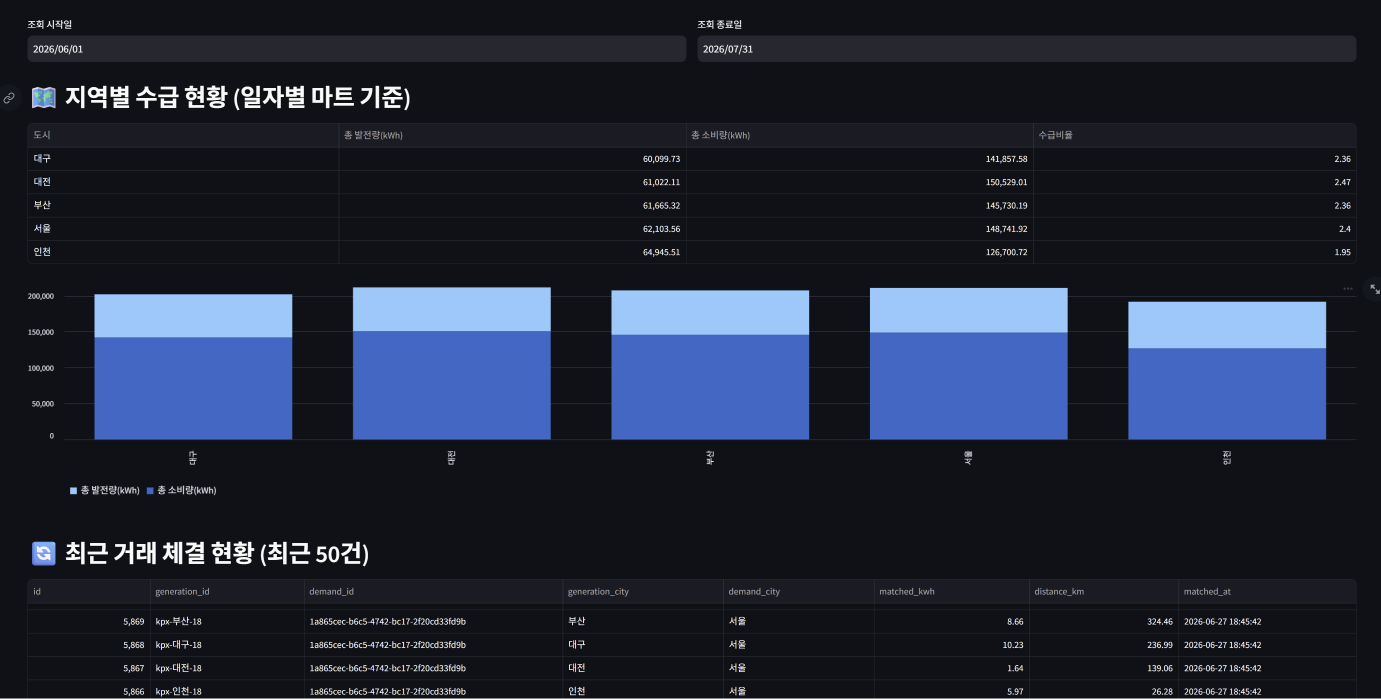
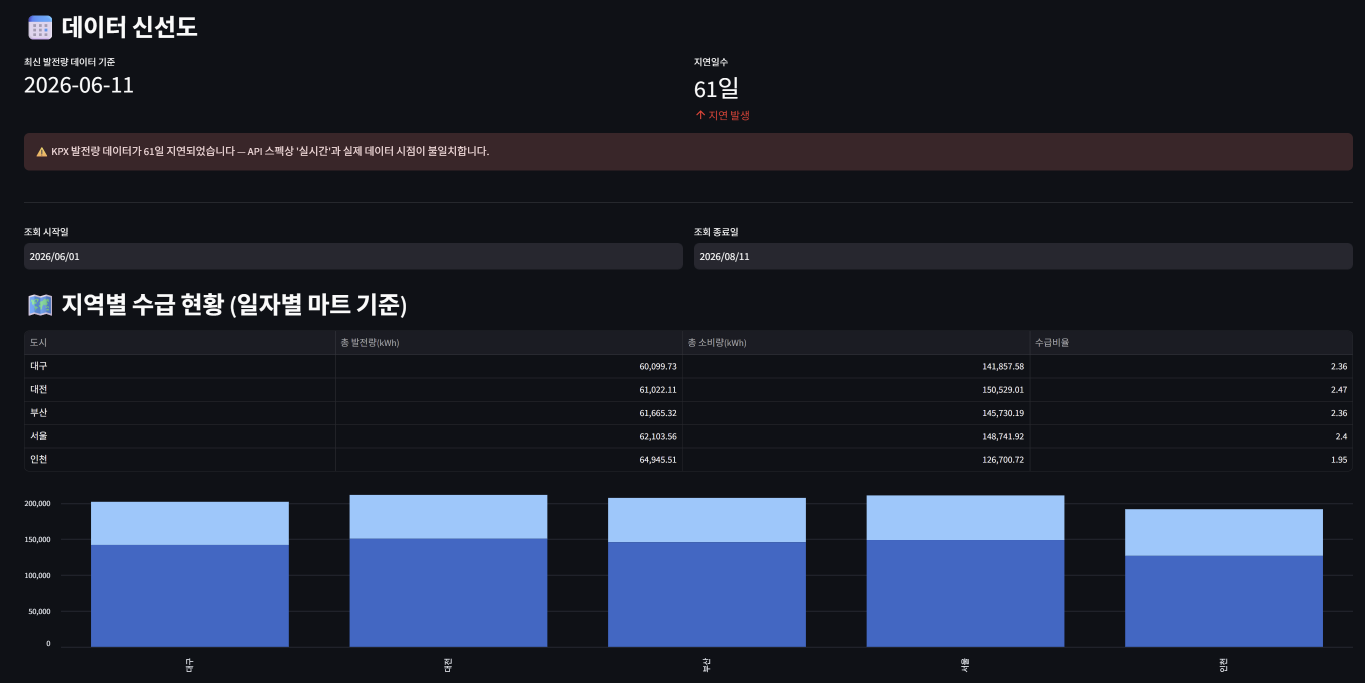
완성도 알럿 추가

diff --git a/src/dashboard.py b/src/dashboard.py
@@ -98,7 +98,26 @@ for col in ['solar_radiation', 'temperature', 'generation_kwh', 'demand_kwh']:
         cols.append(col)
 price_df = price_df[cols]
 price_df.columns = ['도시', '가격(원/kWh)'] + ['일사량(MJ/m²)', '기온(°C)', '공급(kWh)', '수요(kWh)'][: len(cols) - 2]
+price_df.loc[price_df['도시'] == '대구', '일사량(MJ/m²)'] = None
 st.dataframe(price_df, use_container_width=True, hide_index=True)
+
+
+# ------------------------------------------------------------
+# 완전성 체크 — Pinot의 partialResult 개념 차용
+# API 응답 자체는 성공(에러 없음)해도, 특정 도시의 필드가
+# 전부 None으로 비어있는 "조용한 부분 실패"가 실제로 발생한 적이 있어 추가함.
+# 겉보기엔 정상 응답이어도 내용을 직접 검증해야 진짜 상태를 알 수 있다는
+# 원칙을 신선도 체크에 이어 완전성 축에도 동일하게 적용함.
+# ------------------------------------------------------------
+data_cols = [c for c in price_df.columns if c != '도시']
+incomplete_mask = price_df[data_cols].isna().any(axis=1)
+incomplete_cities = price_df.loc[incomplete_mask, '도시'].tolist()
+
+if incomplete_cities:
+    st.warning(
+        f"⚠ 일부 도시({', '.join(incomplete_cities)})의 데이터가 누락되었습니다 — "
+        f"API 응답은 성공했지만 값이 비어있는 부분 실패(partial result) 상태입니다."
+    )
 
 
 # 2. 발전량 현황

diff --git a/README.md b/README.md
@@ -132,6 +132,14 @@
 - KPX SMP 계통한계가격 API
 - 수요량은 실제 공개 API 부재로 더미 데이터 유지
 
+**5. 데이터 품질 알럿**
+- **신선도(Freshness) 체크** — KPX 발전량 API가 "실시간"이라 표기돼 있었지만, 실제로는 배치 형태로 갱신되며 최신 데이터가 61일 전 시점에 멈춰있는 것을 확인. 최신 데이터 시점과 현재 시각의 차이가 임계값(7일)을 넘으면 대시보드에 경고를 띄우도록 구현 (`dashboard.py`, 스크린샷은 위 대시보드 이미지 참고)
+- **완전성(Completeness) 체크** — API 응답이 정상(에러 없음)이어도 특정 도시의 필드가 전부 비어있는 부분 실패가 발생할 수 있음을 확인. 도시별 필수 컬럼에 결측값이 있으면 경고를 띄우도록 구현
+
+  ![completeness-alert](docs/images/completeness-alert.png)
+
+- 두 체크 모두 "응답이 성공했다"와 "데이터가 맞다/완전하다"는 서로 다른 문제라는 전제에서 출발함
+
 ---
 
 ## 데이터 마트
@@ -164,7 +172,7 @@ FULL OUTER JOIN + COALESCE로 raw 테이블 중 일부에만 데이터가 있는
 ### 마트를 만들며 발견한 것
 
 1. **매칭 엔진은 "그날 발전량"만 쓰지 않는다** — 이전에 쌓여있던 미매칭 발전량 재고까지 매칭에 사용하는 구조라, 특정일에 발전량이 0이어도 거래는 발생할 수 있다.
-2. **KPX 발전량 API의 데이터 신선도 이슈** — 공공데이터포털엔 "제공주기: 실시간"으로 명시돼 있었지만, 실제 API 응답을 검증해보니 요청 시점과 무관하게 2~3일 지연된 확정 데이터만 반환하고 있었다. (검증 과정과 상세 원인은 [벨로그 포스트] 참고)
+2. **KPX 발전량 API의 데이터 신선도 이슈** — 공공데이터포털엔 "제공주기: 실시간"으로 명시돼 있었지만, 실제 API 응답을 검증해보니 최신 데이터가 현재 시점 기준 61일 전에 멈춰있었다. 이후 대시보드에 신선도 체크를 추가해, 지연이 임계값(7일)을 넘으면 경고를 띄우도록 대응했다. (검증 과정과 상세 원인은 [벨로그 포스트] 참고)
 
 ### 실행 방법
 
